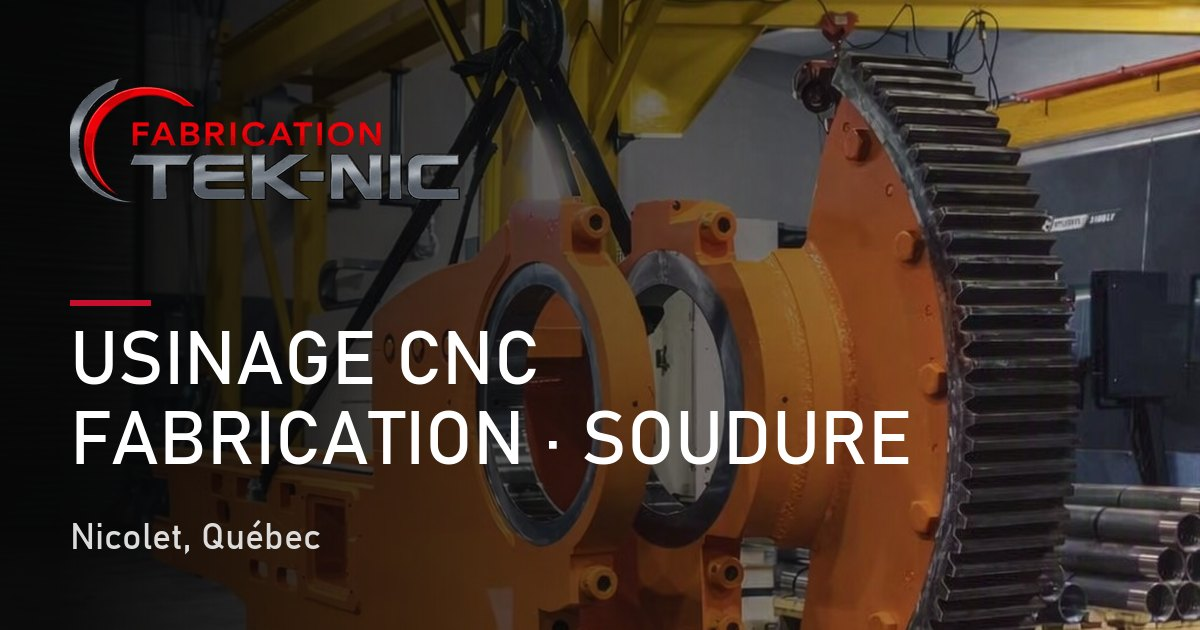
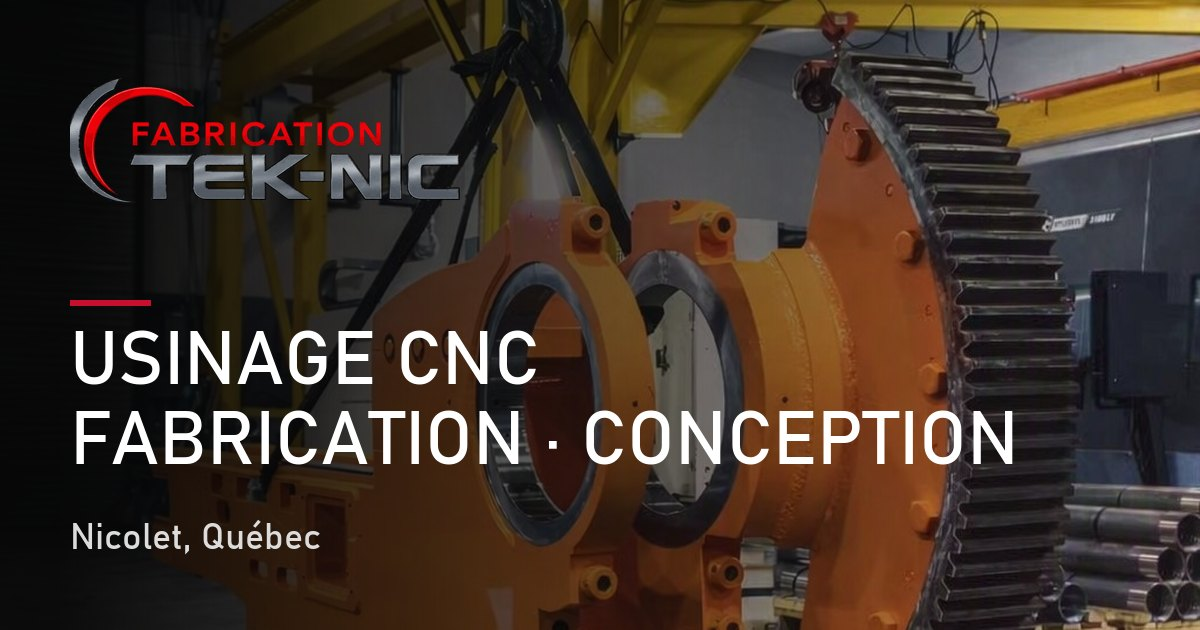
Reduce services to four (machining, fabrication, design, 3D printing)
- Replace welding and mechanics with a Design (CAD) service and a technical-drawing illustration
- Shorter descriptions and brand colors (black, red, grey, white) for each service
- Update hero list, quote form options, SEO text, structured data and OG image; redirect old service URLs

Changed region(s): [[0.555, 0.6333, 0.8633, 0.754], [0.4625, 0.6635, 0.5242, 0.7238]]

diff --git a/src/data/services.ts b/src/data/services.ts
@@ -36,6 +36,7 @@ export type Service = {
   videoShape?: 'landscape' | 'square'
 }
 
+// Fondos de la marca: negro, rojo, gris y blanco (el blanco va en textos y acentos)
 export const SERVICES: Service[] = [
   {
     id: 'usinage',
@@ -46,14 +47,12 @@ export const SERVICES: Service[] = [
       en: 'Precision within 0.001°',
     },
     description: {
-      fr:
-        "Centres d'usinage horizontaux et verticaux CNC pour pièces jusqu'à 11 000 lb, avec rotation 360° et tolérances microniques. En atelier et sur site.",
-      en:
-        'Horizontal and vertical CNC machining centers for parts up to 11,000 lb, with 360° rotation and micron tolerances. In-house and on-site.',
+      fr: "Centres d'usinage CNC horizontaux et verticaux pour pièces jusqu'à 11 000 lb, avec des tolérances microniques.",
+      en: 'Horizontal and vertical CNC machining centers for parts up to 11,000 lb, with micron tolerances.',
     },
     image: '/service-usinage.jpg',
-    bg: { from: '#0F172A', via: '#1E293B', to: '#020617' },
-    accent: '#94A3B8',
+    bg: { from: '#0B0B0C', via: '#3A3D42', to: '#040405' },
+    accent: '#F0434F',
     specs: [
       { label: { fr: 'Capacité', en: 'Capacity' }, value: '11 000 lb' },
       { label: { fr: 'Rotation', en: 'Rotation' }, value: '360° / 0.001°' },
@@ -71,104 +70,63 @@ export const SERVICES: Service[] = [
       en: 'Custom structures, components and assemblies',
     },
     description: {
-      fr:
-        "Fabrication métallique sur mesure, structures, composants et assemblages complexes réalisés dans nos 12 500 pi² d'atelier équipé.",
-      en:
-        'Custom metal fabrication, structures, components and complex assemblies built in our 12,500 sq ft equipped shop.',
+      fr: "Structures, composants et assemblages métalliques sur mesure, soudés et finis dans notre atelier de 12 500 pi².",
+      en: 'Custom metal structures, components and assemblies, welded and finished in our 12,500 sq ft shop.',
     },
     image: '/service-fabrication.jpg',
     video: '/service-fabrication.mp4',
     videoShape: 'landscape',
     cardVideo: '/service-fabrication-card.mp4',
-    bg: { from: '#451A03', via: '#78350F', to: '#1C0B02' },
-    accent: '#F59E0B',
+    bg: { from: '#3D0811', via: '#9B1126', to: '#16040A' },
+    accent: '#FFFFFF',
     specs: [
       { label: { fr: 'Atelier', en: 'Shop area' }, value: '12 500 pi²', valueEn: '12,500 sq ft' },
       { label: { fr: 'Pont roulant', en: 'Overhead crane' }, value: '7 tonnes', valueEn: '7 tons' },
-      { label: { fr: 'Scie', en: 'Saw' }, value: 'jusqu\'à 18"', valueEn: 'up to 18"' },
+      { label: { fr: 'Scie', en: 'Saw' }, value: "jusqu'à 18\"", valueEn: 'up to 18"' },
       { label: { fr: 'Perceuse radiale', en: 'Radial drill' }, value: 'Ø 2¼"' },
     ],
   },
   {
-    id: 'soudure',
+    id: 'conception',
     number: '03',
-    name: { fr: 'SOUDURE', en: 'WELDING' },
+    name: { fr: 'CONCEPTION', en: 'DESIGN' },
     headline: {
-      fr: 'Chaque cordon, une signature',
-      en: 'Every weld, a signature',
+      fr: "De l'idée au plan",
+      en: 'From idea to drawing',
     },
     description: {
-      fr:
-        'Équipement complet pour souder aluminium, acier inoxydable, acier, fonte d\'acier, fonte ductile et laiton avec finition impeccable.',
-      en:
-        'Complete equipment to weld aluminum, stainless steel, steel, cast steel, ductile iron and brass with impeccable finish.',
+      fr: 'Conception 3D (CAO), plans techniques, rétro-ingénierie et prototypes pour vos pièces sur mesure.',
+      en: '3D design (CAD), technical drawings, reverse engineering and prototypes for your custom parts.',
     },
-    image: '/service-soudure.jpg',
-    video: '/service-soudure.mp4',
-    cardVideo: '/service-soudure-card.mp4',
-    cardFit: 'contain',
-    badge: {
-      src: '/brand/cwb-certified.png',
-      alt: 'Logo CWB — Certifié CSA W47.1',
-      altEn: 'CWB logo — CSA W47.1 Certified',
-    },
-    bg: { from: '#1E3A8A', via: '#1E40AF', to: '#0C1B4A' },
-    accent: '#60A5FA',
+    image: '/service-conception.svg',
+    bg: { from: '#1A1B1E', via: '#6B7078', to: '#0D0E10' },
+    accent: '#FF5A68',
     specs: [
-      { label: { fr: 'Aluminium', en: 'Aluminum' }, value: 'MIG / TIG' },
-      { label: { fr: 'Inox', en: 'Stainless' }, value: 'TIG' },
-      { label: { fr: 'Fonte ductile', en: 'Ductile iron' }, value: '✓' },
-      { label: { fr: 'Laiton & Acier', en: 'Brass & Steel' }, value: '✓' },
-    ],
-  },
-  {
-    id: 'mecanique',
-    number: '04',
-    name: { fr: 'MÉCANIQUE', en: 'MECHANICS' },
-    headline: {
-      fr: 'Réparation, entretien, remise à neuf',
-      en: 'Repair, maintenance, refurbishment',
-    },
-    description: {
-      fr:
-        'Réparation de composants mécaniques, entretien industriel, jet de sable et peinture — tout au même endroit, exécuté par des mains expertes.',
-      en:
-        'Repair of mechanical components, industrial maintenance, sandblasting and painting — all under one roof, delivered by expert hands.',
-    },
-    image: '/service-mecanique.jpg',
-    video: '/service-mecanique.mp4',
-    cardVideo: '/service-mecanique-card.mp4',
-    cardFit: 'contain',
-    bg: { from: '#450A0A', via: '#7F1D1D', to: '#1A0303' },
-    accent: '#C8102E',
-    specs: [
-      { label: { fr: 'Réparation', en: 'Repair' }, value: '✓' },
-      { label: { fr: 'Entretien', en: 'Maintenance' }, value: '24/7' },
-      { label: { fr: 'Sablage', en: 'Sandblast' }, value: '✓' },
-      { label: { fr: 'Peinture', en: 'Painting' }, value: 'Industrielle', valueEn: 'Industrial' },
+      { label: { fr: 'Modélisation', en: 'Modeling' }, value: '3D · CAO', valueEn: '3D · CAD' },
+      { label: { fr: 'Plans', en: 'Drawings' }, value: 'Techniques', valueEn: 'Technical' },
+      { label: { fr: 'Rétro-ingénierie', en: 'Reverse engineering' }, value: '✓' },
+      { label: { fr: 'Prototypage', en: 'Prototyping' }, value: '✓' },
     ],
   },
   {
     id: '3d',
-    number: '05',
+    number: '04',
     name: { fr: 'IMPRESSION 3D', en: '3D PRINTING' },
     headline: {
       fr: 'Concevoir autrement, fabriquer intelligemment',
       en: 'Design differently, build intelligently',
     },
     description: {
-      fr:
-        "Conception et impression 3D pour entreprises, ingénieurs et créateurs. Prototypes, modèles réduits de machines et pièces techniques de calibre industriel — service complet de bout en bout.",
-      en:
-        'Full 3D design and printing service for companies, engineers and creators. Prototypes, scale models and industrial-grade technical parts — end-to-end service.',
+      fr: 'Impression 3D industrielle avec notre partenaire DG Innovation 3D : prototypes, modèles et pièces techniques.',
+      en: 'Industrial 3D printing with our partner DG Innovation 3D: prototypes, models and technical parts.',
     },
     image: '',
     video: '/service-3d.mp4',
     cover: '/service-3d-cover.jpg',
     coverLogo: { src: '/brand/dg-innovation-logo.png', alt: 'DG Innovation 3D' },
     videoShape: 'square',
-    bg: { from: '#083344', via: '#0E7490', to: '#022530' },
-    accent: '#06B6D4',
+    bg: { from: '#050505', via: '#3A0B14', to: '#000000' },
+    accent: '#F0434F',
     specs: [
       { label: { fr: 'Conception', en: 'Design' }, value: 'CAO', valueEn: 'CAD' },
       { label: { fr: 'Prototypage', en: 'Prototyping' }, value: 'Rapide', valueEn: 'Rapid' },

diff --git a/index.html b/index.html
@@ -8,18 +8,18 @@
     <link rel="manifest" href="/site.webmanifest" />
     <meta name="theme-color" content="#0b0b0b" />
     <meta name="viewport" content="width=device-width, initial-scale=1.0" />
-    <meta name="description" content="Fabrication TEK-NIC : usinage CNC, fabrication métallique, soudure, mécanique industrielle et impression 3D à Nicolet, Centre-du-Québec. Demandez une soumission." />
-    <meta name="keywords" content="usinage CNC, fabrication métallique, soudure, mécanique industrielle, impression 3D, atelier d'usinage, Nicolet, Centre-du-Québec, Québec" />
+    <meta name="description" content="Fabrication TEK-NIC : usinage CNC, fabrication métallique, conception (CAO) et impression 3D à Nicolet, Centre-du-Québec. Demandez une soumission." />
+    <meta name="keywords" content="usinage CNC, fabrication métallique, conception CAO, impression 3D, soudure, atelier d'usinage, Nicolet, Centre-du-Québec, Québec" />
 
     <!-- Open Graph / Social Media -->
     <meta property="og:type" content="business.business" />
     <meta property="og:url" content="https://teknicweb.netlify.app/" />
-    <meta property="og:title" content="Usinage CNC, fabrication et soudure à Nicolet | TEK-NIC" />
+    <meta property="og:title" content="Usinage CNC, fabrication et conception à Nicolet | TEK-NIC" />
     <meta property="og:description" content="Fabrication TEK-NIC : usinage CNC, fabrication métallique, soudure, mécanique industrielle et impression 3D à Nicolet, Centre-du-Québec. Demandez une soumission." />
     <meta property="og:image" content="https://teknicweb.netlify.app/og-image.jpg" />
     <meta property="og:image:width" content="1200" />
     <meta property="og:image:height" content="630" />
-    <meta property="og:image:alt" content="Fabrication TEK-NIC — Usinage CNC, fabrication et soudure à Nicolet, Québec" />
+    <meta property="og:image:alt" content="Fabrication TEK-NIC — Usinage CNC, fabrication et conception à Nicolet, Québec" />
     <meta property="og:locale" content="fr_CA" />
     <meta property="og:locale:alternate" content="en_CA" />
     <meta property="og:site_name" content="Fabrication TEK-NIC" />
@@ -27,7 +27,7 @@
     <!-- Twitter Card -->
     <meta name="twitter:card" content="summary_large_image" />
     <meta name="twitter:url" content="https://teknicweb.netlify.app/" />
-    <meta name="twitter:title" content="Usinage CNC, fabrication et soudure à Nicolet | TEK-NIC" />
+    <meta name="twitter:title" content="Usinage CNC, fabrication et conception à Nicolet | TEK-NIC" />
     <meta name="twitter:description" content="Fabrication TEK-NIC : usinage CNC, fabrication métallique, soudure, mécanique industrielle et impression 3D à Nicolet, Centre-du-Québec. Demandez une soumission." />
     <meta name="twitter:image" content="https://teknicweb.netlify.app/og-image.jpg" />
 
@@ -44,7 +44,7 @@
       "@type": "LocalBusiness",
       "name": "Fabrication TEK-NIC",
       "image": "https://teknicweb.netlify.app/logo-teknic.png",
-      "description": "Usinage CNC, fabrication métallique, soudure, mécanique industrielle et impression 3D à Nicolet, Québec",
+      "description": "Usinage CNC, fabrication métallique, conception (CAO) et impression 3D à Nicolet, Québec",
       "knowsLanguage": ["fr", "en"],
       "hasOfferCatalog": {
         "@type": "OfferCatalog",
@@ -52,8 +52,7 @@
         "itemListElement": [
           { "@type": "Offer", "itemOffered": { "@type": "Service", "name": "Usinage CNC" } },
           { "@type": "Offer", "itemOffered": { "@type": "Service", "name": "Fabrication métallique" } },
-          { "@type": "Offer", "itemOffered": { "@type": "Service", "name": "Soudure" } },
-          { "@type": "Offer", "itemOffered": { "@type": "Service", "name": "Mécanique industrielle" } },
+          { "@type": "Offer", "itemOffered": { "@type": "Service", "name": "Conception (CAO)" } },
           { "@type": "Offer", "itemOffered": { "@type": "Service", "name": "Impression 3D" } }
         ]
       },
@@ -88,7 +87,7 @@
       "name": "Fabrication TEK-NIC",
       "url": "https://teknicweb.netlify.app",
       "logo": "https://teknicweb.netlify.app/logo-teknic.png",
-      "description": "Spécialiste en usinage, fabrication, soudure et mécanique industrielle",
+      "description": "Spécialiste en usinage, fabrication, conception et impression 3D",
       "contactPoint": {
         "@type": "ContactPoint",
         "telephone": "+1-819-870-3271",
@@ -97,14 +96,14 @@
     }
     </script>
 
-    <title>Usinage CNC, fabrication et soudure à Nicolet | TEK-NIC</title>
+    <title>Usinage CNC, fabrication et conception à Nicolet | TEK-NIC</title>
   </head>
   <body class="bg-black text-white antialiased">
     <div id="root"></div>
     <noscript>
       <main style="font-family: sans-serif; padding: 2rem; color: #fff; background: #000">
-        <h1>Fabrication TEK-NIC — Usinage CNC, fabrication et soudure à Nicolet, Québec</h1>
-        <p>Usinage CNC, fabrication métallique, soudure, mécanique industrielle et impression 3D. Atelier de 12 500 pi² à Nicolet, Québec.</p>
+        <h1>Fabrication TEK-NIC — Usinage CNC, fabrication et conception à Nicolet, Québec</h1>
+        <p>Usinage CNC, fabrication métallique, conception (CAO) et impression 3D. Atelier de 12 500 pi² à Nicolet, Québec.</p>
         <p>50, route Marie-Victorin, Nicolet (Québec) J3T 1A1 · 819-870-3271 · info@fabricationteknic.com</p>
         <nav>
           <a href="/services">Services</a> · <a href="/equipements">Équipements</a> · <a href="/portfolio">Portfolio</a> ·
@@ -121,10 +120,10 @@
       <input type="tel" name="phone" />
       <select name="service">
         <option value=""></option>
-        <option value="usinage-cnc"></option>
-        <option value="tournage"></option>
-        <option value="soudage"></option>
-        <option value="maintenance"></option>
+        <option value="usinage"></option>
+        <option value="fabrication"></option>
+        <option value="conception"></option>
+        <option value="impression-3d"></option>
         <option value="autre"></option>
       </select>
       <textarea name="message"></textarea>

diff --git a/src/data/serviceDetails.ts b/src/data/serviceDetails.ts
@@ -31,29 +31,20 @@ export const SERVICE_DETAILS: Record<string, ServiceDetail> = {
       },
     ],
   },
-  soudure: {
-    heading: { fr: 'Soudure industrielle certifiée CWB', en: 'CWB-certified industrial welding' },
+  conception: {
+    heading: { fr: 'Conception et dessin technique à Nicolet', en: 'Design and technical drawing in Nicolet' },
     paragraphs: [
       {
-        fr: "Nous disposons de l'équipement complet pour souder l'aluminium, l'acier inoxydable, l'acier, la fonte d'acier, la fonte ductile et le laiton, avec une finition impeccable. Les procédés MIG et TIG sont disponibles.",
-        en: 'We have the complete equipment to weld aluminum, stainless steel, steel, cast steel, ductile iron and brass with an impeccable finish. MIG and TIG processes are available.',
+        fr: "Nous concevons des pièces et des assemblages sur mesure en 3D (CAO) et produisons les plans techniques nécessaires à leur fabrication, avec les tolérances requises.",
+        en: 'We design custom parts and assemblies in 3D (CAD) and produce the technical drawings needed to manufacture them, with the required tolerances.',
       },
       {
-        fr: "Notre atelier est certifié CWB (CSA W47.1). Que ce soit pour une pièce unitaire, une réparation ou un assemblage plus important, la soudure s'intègre à notre fabrication et à notre usinage pour un résultat cohérent.",
-        en: 'Our shop is CWB certified (CSA W47.1). Whether it is a single part, a repair or a larger assembly, welding is integrated with our fabrication and machining for a consistent result.',
-      },
-    ],
-  },
-  mecanique: {
-    heading: { fr: 'Mécanique industrielle, entretien et remise à neuf', en: 'Industrial mechanics, maintenance and refurbishment' },
-    paragraphs: [
-      {
-        fr: "Nous réparons des composants mécaniques et assurons l'entretien industriel, en atelier comme sur site. Nos équipes interviennent pour remettre à neuf des pièces et des équipements afin de prolonger leur durée de vie.",
-        en: 'We repair mechanical components and provide industrial maintenance, both in our shop and on site. Our teams step in to refurbish parts and equipment to extend their service life.',
+        fr: "Vous avez une pièce brisée ou sans plan ? La rétro-ingénierie permet de la reproduire à partir d'un échantillon. Nous pouvons aussi améliorer une pièce existante pour la rendre plus simple à fabriquer, et la prototyper avant de passer à la production.",
+        en: 'Have a broken part or one with no drawing? Reverse engineering lets us reproduce it from a sample. We can also improve an existing part to make it easier to manufacture, and prototype it before moving to production.',
       },
       {
-        fr: "Le jet de sable et la peinture industrielle sont faits sur place : vous obtenez une pièce réparée et protégée, sans avoir à passer par plusieurs fournisseurs.",
-        en: 'Sandblasting and industrial painting are done in-house: you get a repaired and protected part without having to deal with several suppliers.',
+        fr: "Nous travaillons avec les formats courants (STEP, DXF, DWG, PDF), et le même atelier fabrique ensuite la pièce : usinage, fabrication et, au besoin, impression 3D.",
+        en: 'We work with common file formats (STEP, DXF, DWG, PDF), and the same shop then makes the part: machining, fabrication and, when needed, 3D printing.',
       },
     ],
   },

diff --git a/src/pages/ServicesPage.tsx b/src/pages/ServicesPage.tsx
@@ -8,10 +8,10 @@ import { useLang } from '../lib/i18n'
 export default function ServicesPage() {
   const { lang, t, lp } = useLang()
   usePageMeta(
-    t("Services d'usinage, fabrication et soudure | TEK-NIC", 'Machining, Fabrication & Welding Services | TEK-NIC'),
+    t("Services d'usinage, fabrication et conception | TEK-NIC", 'Machining, Fabrication & Design Services | TEK-NIC'),
     t(
-      'Usinage CNC, fabrication métallique, soudure, mécanique industrielle et impression 3D à Nicolet, Québec. Un seul atelier pour tout votre projet.',
-      'CNC machining, metal fabrication, welding, industrial mechanics and 3D printing in Nicolet, Quebec. One shop for your whole project.'
+      'Usinage CNC, fabrication métallique, conception (CAO) et impression 3D à Nicolet, Québec. Un seul atelier pour tout votre projet.',
+      'CNC machining, metal fabrication, design (CAD) and 3D printing in Nicolet, Quebec. One shop for your whole project.'
     ),
     '/services',
     breadcrumbLd([
@@ -35,8 +35,8 @@ export default function ServicesPage() {
           </h1>
           <p className="font-sans font-light text-white/60 text-base md:text-lg leading-relaxed">
             {t(
-              'Cinq expertises sous un même toit. Chaque projet est pris en charge de bout en bout par nos équipes.',
-              'Five areas of expertise under one roof. Every project is handled end to end by our teams.'
+              'Quatre expertises sous un même toit. Chaque projet est pris en charge de bout en bout par nos équipes.',
+              'Four areas of expertise under one roof. Every project is handled end to end by our teams.'
             )}
           </p>
         </div>

diff --git a/src/pages/HomePage.tsx b/src/pages/HomePage.tsx
@@ -10,10 +10,10 @@ import { useLang } from '../lib/i18n'
 export default function HomePage() {
   const { t } = useLang()
   usePageMeta(
-    t('Usinage CNC, fabrication et soudure à Nicolet | TEK-NIC', 'CNC Machining, Fabrication & Welding in Nicolet | TEK-NIC'),
+    t('Usinage CNC, fabrication et conception à Nicolet | TEK-NIC', 'CNC Machining, Fabrication & Design in Nicolet | TEK-NIC'),
     t(
-      'Fabrication TEK-NIC : usinage CNC, fabrication métallique, soudure, mécanique industrielle et impression 3D à Nicolet, Centre-du-Québec. Demandez une soumission.',
-      'Fabrication TEK-NIC: CNC machining, metal fabrication, welding, industrial mechanics and 3D printing in Nicolet, Quebec. Request a quote.'
+      'Fabrication TEK-NIC : usinage CNC, fabrication métallique, conception (CAO) et impression 3D à Nicolet, Centre-du-Québec. Demandez une soumission.',
+      'Fabrication TEK-NIC: CNC machining, metal fabrication, design (CAD) and 3D printing in Nicolet, Quebec. Request a quote.'
     ),
     '/'
   )

diff --git a/src/pages/CareersPage.tsx b/src/pages/CareersPage.tsx
@@ -12,8 +12,8 @@ export default function CareersPage() {
   usePageMeta(
     t('Carrières et emplois à Nicolet | Fabrication TEK-NIC', 'Careers & Jobs in Nicolet | Fabrication TEK-NIC'),
     t(
-      "Joignez-vous à Fabrication TEK-NIC : emplois en usinage CNC, soudure et mécanique industrielle à Nicolet, Québec. Postulez dès aujourd'hui.",
-      'Join Fabrication TEK-NIC: jobs in CNC machining, welding and industrial mechanics in Nicolet, Quebec. Apply today.'
+      "Joignez-vous à Fabrication TEK-NIC : emplois en usinage CNC, fabrication et conception à Nicolet, Québec. Postulez dès aujourd'hui.",
+      'Join Fabrication TEK-NIC: jobs in CNC machining, fabrication and design in Nicolet, Quebec. Apply today.'
     ),
     '/carrieres',
     breadcrumbLd([

diff --git a/src/components/Soumission.tsx b/src/components/Soumission.tsx
@@ -5,10 +5,10 @@ import { Field, FormStyles } from './formParts'
 
 const SERVICE_OPTIONS = [
   { value: '', fr: 'Sélectionner un service…', en: 'Select a service…' },
-  { value: 'usinage-cnc', fr: 'Usinage CNC', en: 'CNC machining' },
-  { value: 'tournage', fr: 'Tournage', en: 'Turning' },
-  { value: 'soudage', fr: 'Soudage', en: 'Welding' },
-  { value: 'maintenance', fr: 'Maintenance industrielle', en: 'Industrial maintenance' },
+  { value: 'usinage', fr: 'Usinage', en: 'Machining' },
+  { value: 'fabrication', fr: 'Fabrication', en: 'Fabrication' },
+  { value: 'conception', fr: 'Conception', en: 'Design' },
+  { value: 'impression-3d', fr: 'Impression 3D', en: '3D printing' },
   { value: 'autre', fr: 'Autre', en: 'Other' },
 ]
 

diff --git a/src/components/Contact.tsx b/src/components/Contact.tsx
@@ -46,7 +46,7 @@ const EMAIL_BODY = {
     '',
     'Nom / entreprise :',
     'Téléphone :',
-    'Type de service (usinage, fabrication, soudure, mécanique, impression 3D) :',
+    'Type de service (usinage, fabrication, conception, impression 3D) :',
     'Description du projet, matériau, quantité et délai souhaité :',
     '',
     'Merci,',
@@ -58,7 +58,7 @@ const EMAIL_BODY = {
     '',
     'Name / company:',
     'Phone:',
-    'Service type (machining, fabrication, welding, mechanics, 3D printing):',
+    'Service type (machining, fabrication, design, 3D printing):',
     'Project description, material, quantity and desired deadline:',
     '',
     'Thank you,',

diff --git a/src/components/Hero.tsx b/src/components/Hero.tsx
@@ -89,7 +89,7 @@ export default function Hero() {
           {[
             { id: 'usinage', label: t('Usinage', 'Machining') },
             { id: 'fabrication', label: 'Fabrication' },
-            { id: 'soudure', label: t('Soudure', 'Welding') },
+            { id: 'conception', label: t('Conception', 'Design') },
             { id: '3d', label: t('Impression 3D', '3D Printing') },
           ].map((item, i, all) => (
             <span key={item.id}>

diff --git a/src/components/ServicesShowcase.tsx b/src/components/ServicesShowcase.tsx
@@ -573,9 +573,9 @@ function MobileServiceCard({ s, index }: { s: Service; index: number }) {
     }
   }, [])
 
-  // Portrait images (soudure, mecanique) need centering to keep face visible
+  // Imágenes verticales: se centran arriba para no cortar la parte importante
   const objectPosition =
-    s.id === 'soudure' || s.id === 'mecanique' ? 'center 20%' : 'center'
+    'center'
 
   return (
     <article
